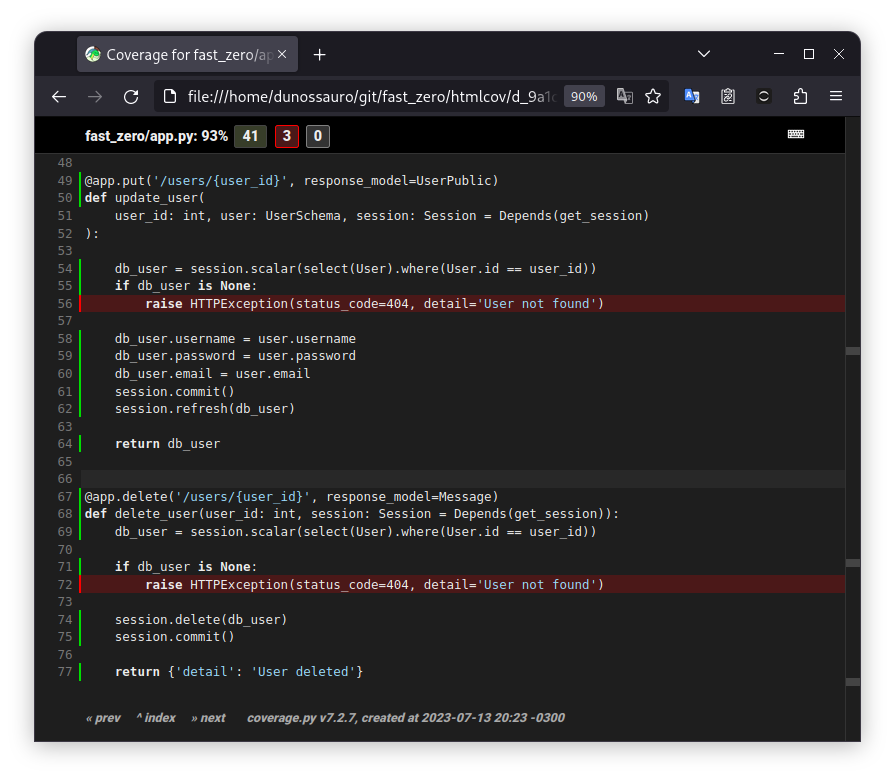
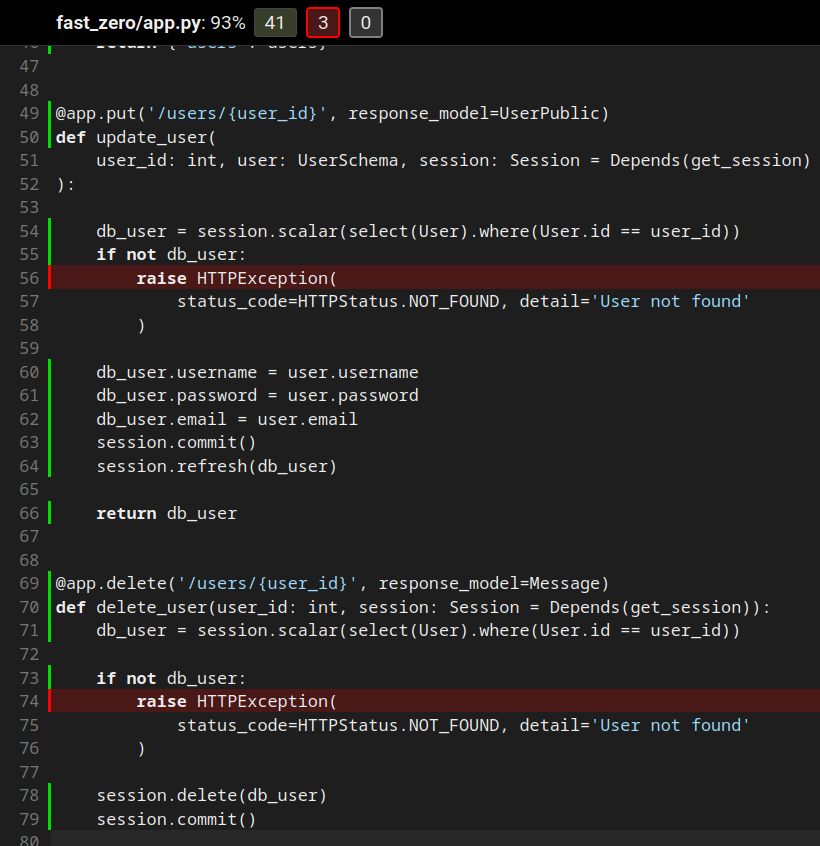
Ajustando captura de tela na aula 05

diff --git a/aulas/05.md b/aulas/05.md
@@ -519,11 +519,9 @@ def test_delete_user(client, user):
 
 Com o banco de dados agora em funcionamento, podemos verificar a cobertura de código do arquivo `fast_zero/app.py`. Se olharmos para a imagem abaixo, vemos que ainda há alguns casos que não testamos. Por exemplo, o que acontece quando tentamos atualizar ou excluir um usuário que não existe?
 
-> TODO: Ajustar esse print
+![descrição](assets/05/coverage_mostrando_casos_nao_testados_de_erro.png){: .center .shadow width=600 }
 
-![descrição](assets/05/coverage_mostrando_casos_nao_testados_de_erro.png){: .center }
-
-Esses três casos ficam como exercício para quem está acompanhando este curso.
+Esses três casos ficam como [exercícios](#exercicios){:target="_blank"} para quem está acompanhando este curso.
 
 Além disso, não devemos esquecer de remover a implementação do banco de dados falso `database = []` que usamos inicialmente e remover também as definições de `TestClient` em `test_app.py`, pois tudo está usando as fixtures agora!
 
